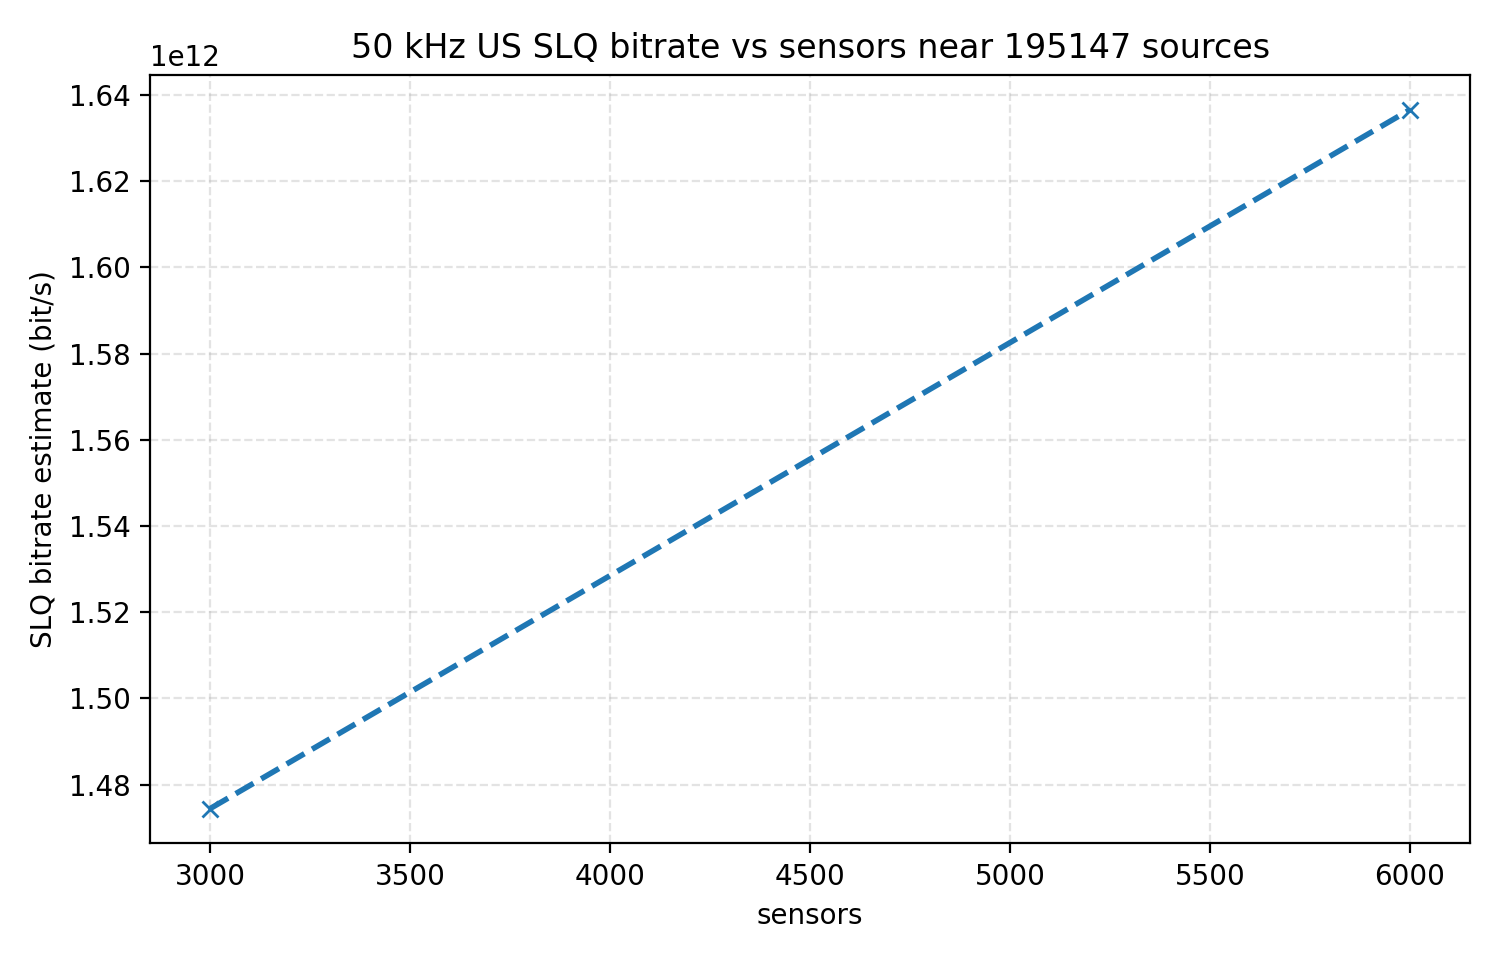
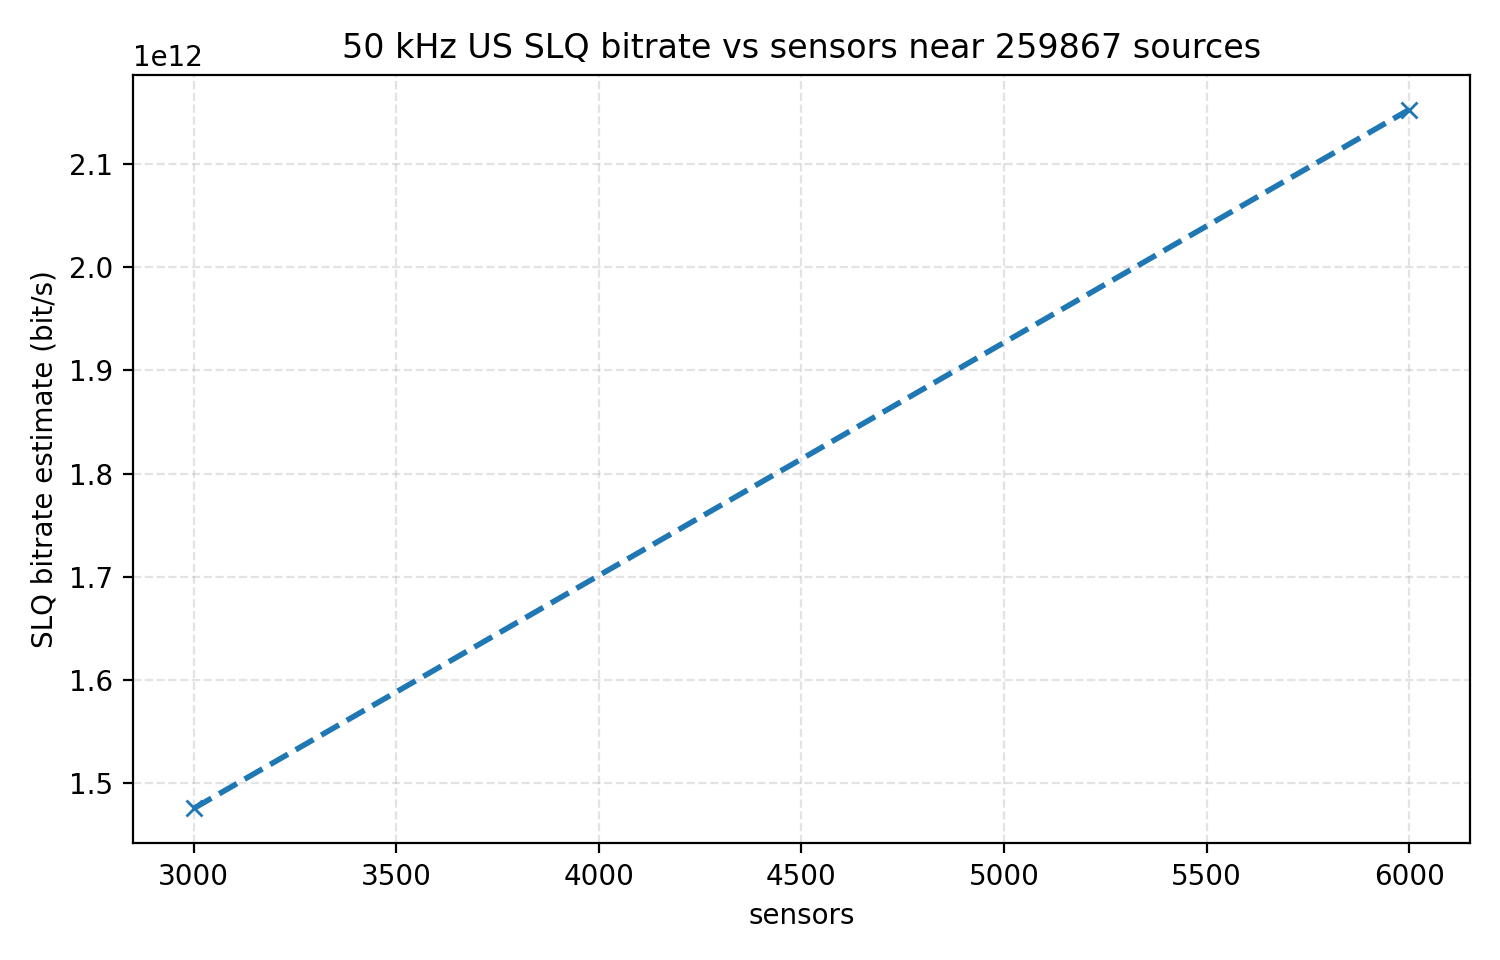
Update ultrasound SLQ convergence analysis

diff --git a/results/variants/us_free_field_analytical_50khz_slq_high_sources_20260601/analysis/README.md b/results/variants/us_free_field_analytical_50khz_slq_high_sources_20260601/analysis/README.md
@@ -18,9 +18,9 @@ The current completed high-source rows used the very high-SNR default (`1e-3` ou
 ## Inputs
 
 - Exact SVD rows: 15
-- SLQ rows: 11
+- SLQ rows: 13
 - Sensor counts: 1000, 3000, 6000
-- Largest SLQ realized source count: 195147
+- Largest SLQ realized source count: 259867
 
 ## Plots
 
@@ -32,8 +32,8 @@ The current completed high-source rows used the very high-SNR default (`1e-3` ou
 
 | sensors | realized sources | SLQ bitrate bit/s |
 | ---: | ---: | ---: |
-| 3000 | 195147 | 1.47443e+12 |
-| 6000 | 195147 | 1.63663e+12 |
+| 3000 | 259867 | 1.47528e+12 |
+| 6000 | 259867 | 2.15289e+12 |
 
 ## Data
 
